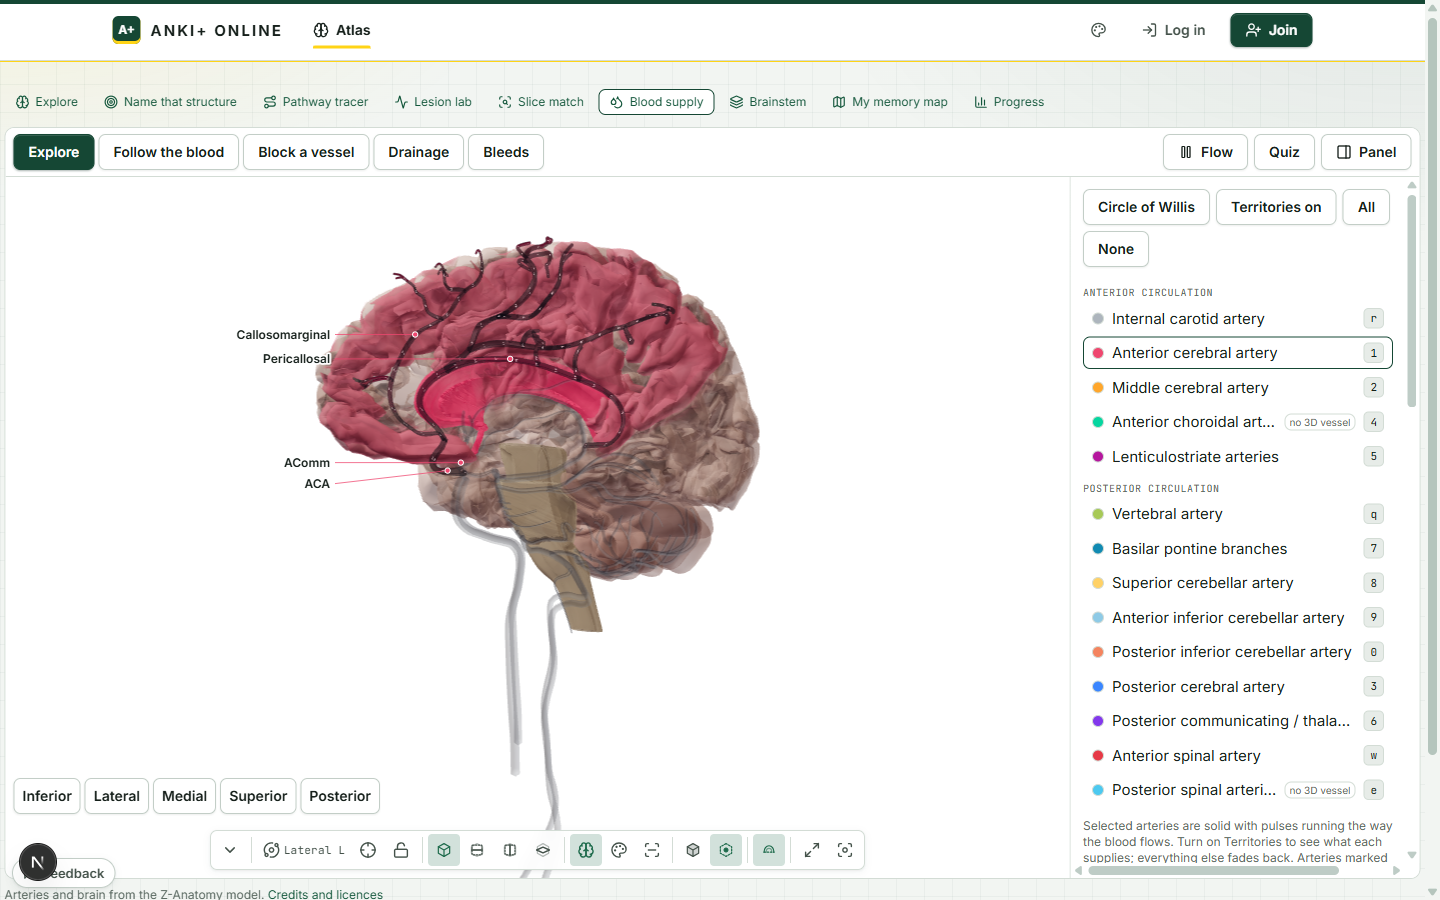
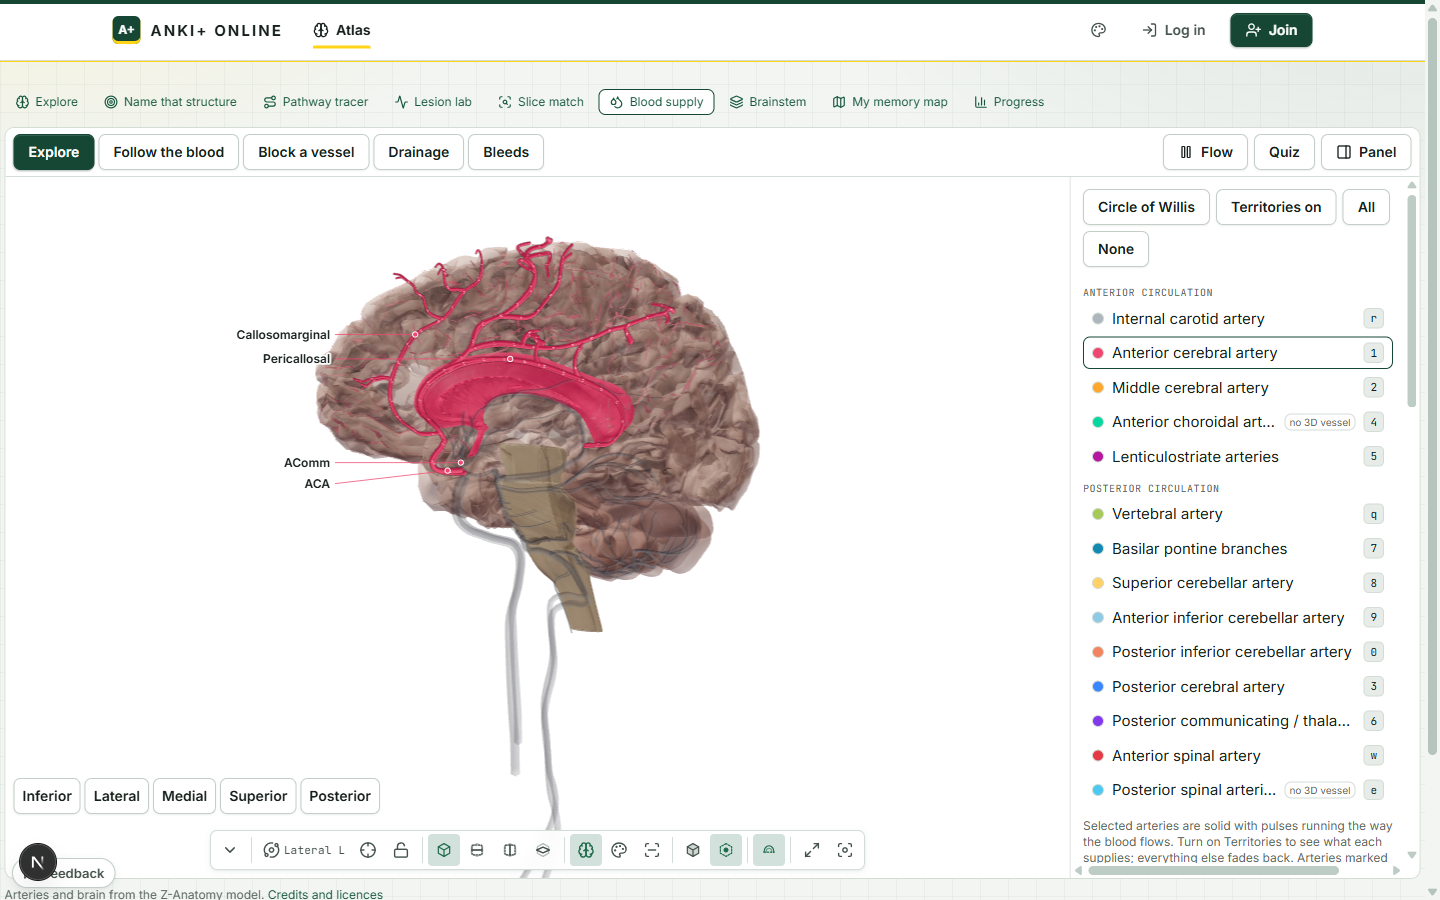
Supply atlas: territory skin winding fix for mirrored meshes, tighter brain framing, PICA verified, proof shots

Changed region(s): [[0.2188, 0.2489, 0.5, 0.5289]]

diff --git a/src/components/atlas/supply/TerritorySurface.tsx b/src/components/atlas/supply/TerritorySurface.tsx
@@ -63,9 +63,15 @@ function buildSurface(root: THREE.Group, variant: string): Built | null {
           }
           arteryOf.push(CORTICAL.indexOf(a as (typeof CORTICAL)[number]));
         }
+        // mirrored meshes (negative determinant) have flipped winding: swap two corners so FrontSide faces outward
+        const flip = mesh.matrixWorld.determinant() < 0;
         const ix = g.index;
-        if (ix) for (let i = 0; i < ix.count; i++) idx.push(base + ix.getX(i));
-        else for (let i = 0; i < p.count; i++) idx.push(base + i);
+        const cnt = ix ? ix.count : p.count;
+        const at = (i: number) => base + (ix ? ix.getX(i) : i);
+        for (let i = 0; i + 2 < cnt; i += 3) {
+          if (flip) idx.push(at(i), at(i + 2), at(i + 1));
+          else idx.push(at(i), at(i + 1), at(i + 2));
+        }
       }
     }
   }
@@ -129,6 +135,10 @@ function buildSurface(root: THREE.Group, variant: string): Built | null {
 
 export function TerritorySurface({ show, colors, variant, side, opacity = 0.72 }: { show: TerritoryShow[]; colors: Map<string, string>; variant: string; /** Only this hemisphere (left = +x). */ side?: "L" | "R"; opacity?: number }) {
   const invalidate = useThree((s) => s.invalidate);
+  const camera = useThree((s) => s.camera);
+  const controls = useThree((s) => s.controls) as unknown as { target: THREE.Vector3 } | null;
+  /** Seen from the side: only the hemisphere on the camera side (the far one would show through the translucent brain). */
+  const [camSide, setCamSide] = useState<"L" | "R" | undefined>(undefined);
   const [root, setRoot] = useState<THREE.Group | null>(null);
   const needed = show.some((s) => (CORTICAL as readonly string[]).includes(s.artery));
   useEffect(() => {
@@ -159,8 +169,9 @@ export function TerritorySurface({ show, colors, variant, side, opacity = 0.72 }
     const rgb = CORTICAL.map((a) => new THREE.Color(colors.get(a) ?? "#999999").lerp(new THREE.Color("#ffffff"), 0.16));
     const amt = CORTICAL.map((a) => show.find((s) => s.artery === a)?.alpha ?? 0);
     const posA = built.geo.attributes.position.array as Float32Array;
+    const eff = side ?? camSide;
     for (let i = 0; i < built.n; i++) {
-      if (side && (side === "L") !== posA[i * 3] > 0) {
+      if (eff && (eff === "L") !== posA[i * 3] > 0) {
         arr[i * 4 + 3] = 0;
         continue;
       }
@@ -182,9 +193,14 @@ export function TerritorySurface({ show, colors, variant, side, opacity = 0.72 }
     col.needsUpdate = true;
     fade.current.tgt = show.some((s) => (CORTICAL as readonly string[]).includes(s.artery)) ? opacity : 0;
     invalidate();
-  }, [built, show, colors, side, opacity, invalidate]);
+  }, [built, show, colors, side, camSide, opacity, invalidate]);
 
   useFrame((_, dt) => {
+    const dx = camera.position.x - (controls?.target.x ?? 0);
+    const dist = camera.position.distanceTo(controls?.target ?? new THREE.Vector3());
+    const ratio = dist > 0 ? dx / dist : 0;
+    const want = ratio > 0.6 ? "L" : ratio < -0.6 ? "R" : undefined;
+    if (want !== camSide) setCamSide(want);
     const f = fade.current;
     if (Math.abs(f.cur - f.tgt) > 0.004) {
       f.cur += (f.tgt - f.cur) * (1 - Math.exp(-Math.min(dt, 0.1) * 8));

diff --git a/src/components/atlas/supply/VesselLayer.tsx b/src/components/atlas/supply/VesselLayer.tsx
@@ -532,7 +532,7 @@ export function VesselLayer({ flow, colors, styleOf, sig, animate, labelOf, bus,
         const corner = new THREE.Vector3(i & 1 ? box.max.x : box.min.x, i & 2 ? box.max.y : box.min.y, i & 4 ? box.max.z : box.min.z);
         const a = corner.clone().sub(c).dot(dir);
         const vv = corner.applyMatrix4(inv);
-        D = Math.max(D, (Math.abs(vv.x) / (tanV * aspect)) * marginX + a, (Math.abs(vv.y) / tanV) * 1.08 + a);
+        D = Math.max(D, (Math.abs(vv.x) / (tanV * aspect)) * marginX + a * 0.55, (Math.abs(vv.y) / tanV) * 0.97 + a * 0.55);
       }
       camera.position.copy(c).addScaledVector(dir, D);
       camera.up.set(0, 1, 0);
